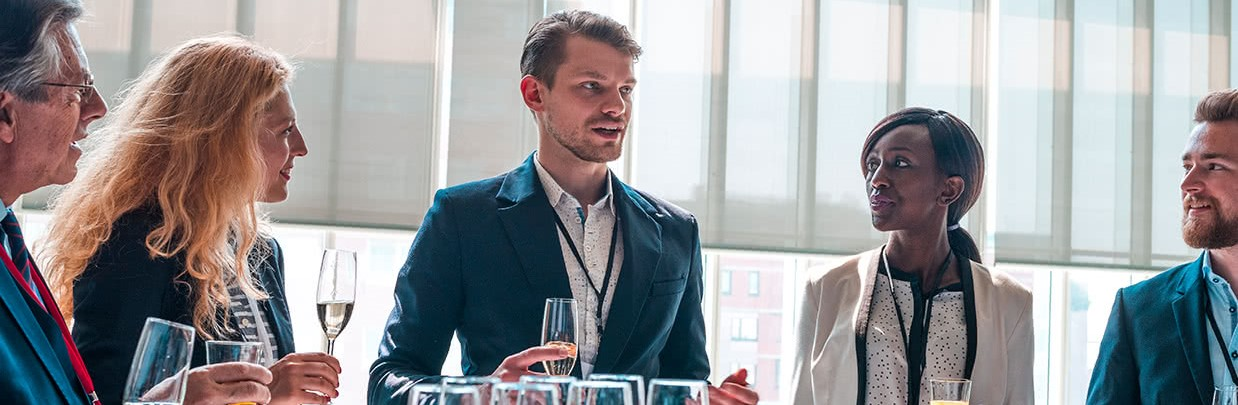
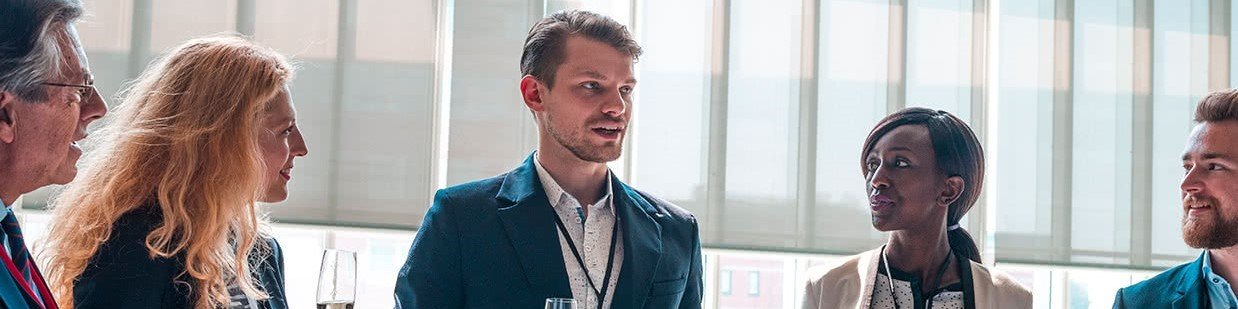
detailed the components and minor stuff

diff --git a/frontend/src/pages/Home/index.tsx b/frontend/src/pages/Home/index.tsx
@@ -5,8 +5,11 @@ import { Banner } from './Banner';
 import { Category } from './Category';
 import TabList from '@/components/Tabs/TabList';
 import TabItem from '@/components/Tabs/TabItem';
-import about1 from '../../assets/img/about-1.jpg';
-import about2 from '../../assets/img/about-2.jpg';
+import about1 from '../../assets/img/about1.jpg';
+import about2 from '../../assets/img/about2.jpg';
+import article1 from '../../assets/img/article1.jpg';
+import article2 from '../../assets/img/article2.jpg';
+import article3 from '../../assets/img/article3.jpg';
 
 const Home: React.FC = () => {
   const { commonStore } = useStore();
@@ -197,13 +200,13 @@ const Home: React.FC = () => {
                 <div className="single-blog !p-5 border-gray border border-solid transition-all rounded-md group hover:border-themePrimary">
                   <div className="img mb-4 overflow-hidden rounded-md">
                     <a href="/blog/single-blog">
-                      <img alt="" aria-hidden="true" src="https://metajobs.vercel.app/_next/image?url=%2Fassets%2Fimg%2Fpost%2Fblog-img-1.webp&w=1080&q=75" />
+                      <img alt="" aria-hidden="true" src={article1} />
                     </a>
                   </div>
-                  <p className="text-grayLight text-xss font-normal mb-2">17 July 2022</p>
-                  <a className="text-arsenic hover:text-themePrimary transition-all duration-300 ease-in-out text-lg2 font-bold leading-6 mb-3 block" href="/blog/single-blog">Simple &amp; Awesome Blog Title Here Lorem Ipsum Dummy Text</a>
+                  <p className="text-grayLight text-xss font-normal mb-2">01 July 2024</p>
+                  <a className="text-arsenic hover:text-themePrimary transition-all duration-300 ease-in-out text-lg2 font-bold leading-6 mb-3 block" href="/blog/single-blog">How to Ace Your Next Job Interview</a>
                   <div className="mb-6">
-                    <p className="text-xs text-deep font-normal leading-6">Lorem ipsum dolor sit amet, consectetur adipiscing elit, sed do eiusmod tempor incididunt ut labore et dolore magna aliqua. Ut enim ad minim veniam, quis nostrud exercitation ullamco laboris nisi ut aliquip ex ea commodo consequat.</p>
+                    <p className="text-xs text-deep font-normal leading-6">"Preparing for a job interview can be a daunting task, but with the right strategies, you can make a lasting impression. Start by researching the company and understanding its culture. Practice common interview questions and answers, and dress appropriately for the role. During the interview, be confident, make eye contact, and listen carefully to the questions before responding. After the interview, don't forget to send a thank-you email to express your appreciation for the opportunity. These steps can significantly increase your chances of landing the job."</p>
                   </div>
                   <div className="blog-btn">
                     <a className="inline-flex gap-3 items-center py-2.5 px-6 bg-light rounded-md group-hover:!bg-themePrimary leading-4 text-deep transition-all text-xxs group-hover:!text-white" href="/blog/single-blog">Read More</a>
@@ -212,13 +215,13 @@ const Home: React.FC = () => {
                 <div className="single-blog !p-5 border-gray border border-solid transition-all rounded-md group hover:border-themePrimary">
                   <div className="img mb-4 overflow-hidden rounded-md">
                     <a href="/blog/single-blog">
-                      <img alt="" aria-hidden="true" src="https://metajobs.vercel.app/_next/image?url=%2Fassets%2Fimg%2Fpost%2Fblog-img-1.webp&w=1080&q=75" />
+                      <img alt="" aria-hidden="true" src={article2} />
                     </a>
                   </div>
-                  <p className="text-grayLight text-xss font-normal mb-2">17 July 2022</p>
-                  <a className="text-arsenic hover:text-themePrimary transition-all duration-300 ease-in-out text-lg2 font-bold leading-6 mb-3 block" href="/blog/single-blog">Simple &amp; Awesome Blog Title Here Lorem Ipsum Dummy Text</a>
+                  <p className="text-grayLight text-xss font-normal mb-2">15 June 2024</p>
+                  <a className="text-arsenic hover:text-themePrimary transition-all duration-300 ease-in-out text-lg2 font-bold leading-6 mb-3 block" href="/blog/single-blog">The Importance of Networking in Your Career</a>
                   <div className="mb-6">
-                    <p className="text-xs text-deep font-normal leading-6">Lorem ipsum dolor sit amet, consectetur adipiscing elit, sed do eiusmod tempor incididunt ut labore et dolore magna aliqua. Ut enim ad minim veniam, quis nostrud exercitation ullamco laboris nisi ut aliquip ex ea commodo consequat.</p>
+                    <p className="text-xs text-deep font-normal leading-6">"Networking is a powerful tool that can propel your career to new heights. Building a strong professional network opens doors to opportunities that might not be advertised publicly. Attend industry events, join professional associations, and participate in online forums to meet new people in your field. Networking isn't just about what others can do for you; it's also about what you can offer in return. Share your knowledge, skills, and resources to build mutually beneficial relationships. Over time, your network can provide valuable support, advice, and job leads."</p>
                   </div>
                   <div className="blog-btn">
                     <a className="inline-flex gap-3 items-center py-2.5 px-6 bg-light rounded-md group-hover:!bg-themePrimary leading-4 text-deep transition-all text-xxs group-hover:!text-white" href="/blog/single-blog">Read More</a>
@@ -227,13 +230,13 @@ const Home: React.FC = () => {
                 <div className="single-blog !p-5 border-gray border border-solid transition-all rounded-md group hover:border-themePrimary">
                   <div className="img mb-4 overflow-hidden rounded-md">
                     <a href="/blog/single-blog">
-                      <img alt="" aria-hidden="true" src="https://metajobs.vercel.app/_next/image?url=%2Fassets%2Fimg%2Fpost%2Fblog-img-1.webp&w=1080&q=75" />
+                      <img alt="" aria-hidden="true" src={article3} />
                     </a>
                   </div>
-                  <p className="text-grayLight text-xss font-normal mb-2">17 July 2022</p>
-                  <a className="text-arsenic hover:text-themePrimary transition-all duration-300 ease-in-out text-lg2 font-bold leading-6 mb-3 block" href="/blog/single-blog">Simple &amp; Awesome Blog Title Here Lorem Ipsum Dummy Text</a>
+                  <p className="text-grayLight text-xss font-normal mb-2">30 May 2024</p>
+                  <a className="text-arsenic hover:text-themePrimary transition-all duration-300 ease-in-out text-lg2 font-bold leading-6 mb-3 block" href="/blog/single-blog">Balancing Work and Life: Tips for a Healthier Lifestyle</a>
                   <div className="mb-6">
-                    <p className="text-xs text-deep font-normal leading-6">Lorem ipsum dolor sit amet, consectetur adipiscing elit, sed do eiusmod tempor incididunt ut labore et dolore magna aliqua. Ut enim ad minim veniam, quis nostrud exercitation ullamco laboris nisi ut aliquip ex ea commodo consequat.</p>
+                    <p className="text-xs text-deep font-normal leading-6">"Achieving a healthy work-life balance is essential for both your mental and physical well-being. Start by setting clear boundaries between work and personal time. Make a schedule that includes time for work, family, and leisure activities. Prioritize tasks and learn to say no to non-essential commitments. Incorporate regular exercise and healthy eating into your daily routine to boost your energy levels and reduce stress. Additionally, ensure you get enough sleep each night to allow your body to recover. Remember, a well-balanced life leads to greater productivity and happiness."</p>
                   </div>
                   <div className="blog-btn">
                     <a className="inline-flex gap-3 items-center py-2.5 px-6 bg-light rounded-md group-hover:!bg-themePrimary leading-4 text-deep transition-all text-xxs group-hover:!text-white" href="/blog/single-blog">Read More</a>

diff --git a/frontend/src/components/Footer/Footer.tsx b/frontend/src/components/Footer/Footer.tsx
@@ -11,15 +11,15 @@ const Footer = () => {
           <div>
             <h5 className="text-white text-lg font-bold mb-4">Company</h5>
             <a href="#" className="block text-gray-300 hover:text-white mb-2">About Us</a>
-            <a href="#" className="block text-gray-300 hover:text-white mb-2">Contact Us</a>
+            <a href="contact-us" className="block text-gray-300 hover:text-white mb-2">Contact Us</a>
             <a href="#" className="block text-gray-300 hover:text-white mb-2">Our Services</a>
             <a href="#" className="block text-gray-300 hover:text-white mb-2">Privacy Policy</a>
             <a href="#" className="block text-gray-300 hover:text-white mb-2">Terms & Condition</a>
           </div>
           <div>
             <h5 className="text-white text-lg font-bold mb-4">Quick Links</h5>
-            <a href="#" className="block text-gray-300 hover:text-white mb-2">About Us</a>
-            <a href="#" className="block text-gray-300 hover:text-white mb-2">Contact Us</a>
+            <a href="/about" className="block text-gray-300 hover:text-white mb-2">About Us</a>
+            <a href="contact-us" className="block text-gray-300 hover:text-white mb-2">Contact Us</a>
             <a href="#" className="block text-gray-300 hover:text-white mb-2">Our Services</a>
             <a href="#" className="block text-gray-300 hover:text-white mb-2">Privacy Policy</a>
             <a href="#" className="block text-gray-300 hover:text-white mb-2">Terms & Condition</a>
@@ -28,11 +28,11 @@ const Footer = () => {
             <h5 className="text-white text-lg font-bold mb-4">Contact</h5>
             <p className="flex items-center mb-2">
               <FontAwesomeIcon icon={faMapMarkerAlt} className="mr-2" />
-              18 Hoàng Quốc Việt, Nghĩa Đô, Cầu Giấy, Hà Nội 100000, Vietnam
+              15/8 P. Duy Tân, Dịch Vọng Hậu, Cầu Giấy, Hà Nội 11310, Vietnam
             </p>
             <p className="flex items-center mb-2">
               <FontAwesomeIcon icon={faPhoneAlt} className="mr-2" />
-              +84 815 68196
+              +84 981 568196
             </p>
             <p className="flex items-center mb-2">
               <FontAwesomeIcon icon={faEnvelope} className="mr-2" />
@@ -67,7 +67,7 @@ const Footer = () => {
         <div className="container mx-auto px-4">
           <div className="flex flex-col md:flex-row justify-between items-center">
             <div className="text-center md:text-left mb-4 md:mb-0">
-              &copy; <a href="#" className="text-white hover:underline">JobHub</a>, All Right Reserved. 
+              &copy; <a href="/" className="text-white hover:underline">JobHub</a>, All Right Reserved. 
             </div>
             <div className="flex space-x-4">
               <a href="/" className="text-gray-300 hover:text-white">Home</a>

diff --git a/frontend/src/pages/Home/Banner/index.tsx b/frontend/src/pages/Home/Banner/index.tsx
@@ -1,14 +1,17 @@
 import React from "react";
+import main from "../../../assets/img/main.jpg"
 
 export function Banner() {
     return (
-            <section className="py-16 md:py-20 lg:py-24 relative bg-cover bg-center bg-no-repeat" style={{ backgroundImage: "url(https://metajobs.vercel.app/assets/img/banner-bg.webp)" }}>
+        <section 
+        className="py-16 md:py-20 lg:py-24 relative bg-cover bg-center bg-no-repeat" 
+        style={{ backgroundImage: `url(${main})` }}>
                 <div className="absolute w-full h-full left-0 top-0 z-2" style={{ backgroundColor: "rgba(0, 124, 50, 0.7)" }}></div>
                 <div className="container">
                     <div className="w-10/12 m-auto z-4 relative">
                         <div className="text-center">
-                            <h1 className="text-5xl xl:text-6xl font-bold text-white text-center leading-none mb-3">Find Your Dream Job <br className="hidden xl:inline" />With Brand Name</h1>
-                            <p className="text-lg font-normal text-white leading-8">Lorem Ipsum is simply dummy text of the printing and <br className="hidden xl:inline" />typesetting industry’s standard dummy text</p>
+                            <h1 className="text-5xl xl:text-6xl font-bold text-white text-center leading-none mb-3">Discover Your Ideal Career Path <br className="hidden xl:inline" />With JobHub</h1>
+                            <p className="text-lg font-normal text-white leading-8">Find opportunities that match your skills and aspirations. <br className="hidden xl:inline" />Start your journey towards a fulfilling career today!</p>
                         </div>
                         <div className="search-wrapper mt-10 p-2 rounded-2xl mb-10" style={{ backgroundColor: "rgba(121, 184, 151, 0.5)" }}>
                             <form>

diff --git a/backend/src/routes/public/job.js b/backend/src/routes/public/job.js
@@ -53,10 +53,10 @@
  *             type: string
  *           description: Job location
  *         - in: query
- *           name: category
+ *           name: categoryId
  *           schema:
  *             type: string
- *           description: Job category
+ *           description: Job category ID
  *       responses:
  *         200:
  *           description: List of jobs matching the search criteria
@@ -85,9 +85,6 @@
  *         location:
  *           type: string
  *           description: Location of the job
- *         category:
- *           type: string
- *           description: Category of the job
  *         businessLogoUrl:
  *           type: string
  *           description: URL of the business logo
@@ -100,6 +97,9 @@
  *             type: string
  *             enum: [fulltime, parttime, internship, remote, contract]
  *           description: Type(s) of employment for the job
+ *         categoryId:
+ *           type: string
+ *           description: ID of the job category
  *         createdAt:
  *           type: string
  *           format: date-time
@@ -117,10 +117,10 @@
  *         description: We are looking for an experienced software engineer...
  *         userId: 5f9d5a3b9d3e2a1b1c9d5a3b
  *         location: San Francisco, CA
- *         category: Information Technology
  *         businessLogoUrl: https://example.com/logo.png
  *         salary: $120,000 - $150,000 per year
  *         employmentType: [fulltime, remote]
+ *         categoryId: 5f9d5a3b9d3e2a1b1c9d5a3c
  *         createdAt: 2023-06-01T00:00:00.000Z
  *         updatedAt: 2023-06-01T00:00:00.000Z
  *         expiredAt: 2023-07-01T00:00:00.000Z

diff --git a/frontend/src/pages/ContactUs/ContactDetails/ContactDetails.tsx b/frontend/src/pages/ContactUs/ContactDetails/ContactDetails.tsx
@@ -6,23 +6,23 @@ const ContactDetails = () => {
       <div className="border-l-4 border-rose-400 px-5">
         <p className="text-lg font-medium text-[#373737]">Address</p>
         <p className="text-grayLight text-base font-normal pt-2">
-          158 Ralegih Sit, Houston, <br />
-          Yk 5896, UK
+        15/8 P. Duy Tân, Dịch Vọng Hậu, Cầu Giấy,<br />
+        Hà Nội 11310, Vietnam 
         </p>
       </div>
       <hr className="my-7" />
       <div className="border-l-4 border-blue-400 px-5">
         <p className="text-lg font-medium text-[#373737]">Phones</p>
         <p className="text-grayLight text-base font-normal pt-2">
-          (406) 555-0120 <span className="text-themePrimary">(Toll Free)</span>
+        +84 981 568196 <span className="text-themePrimary">(Toll Free)</span>
         </p>
-        <p className="text-grayLight text-base font-normal pt-2">(406) 555-0120</p>
+        <p className="text-grayLight text-base font-normal pt-2">+84 981 568196</p>
       </div>
       <hr className="my-7" />
       <div className="border-l-4 border-orange-400 px-5">
         <p className="text-lg font-medium text-[#373737]">E-Mail</p>
-        <p className="text-grayLight text-base font-normal pt-2">Support87@Gmial.Com</p>
-        <p className="text-grayLight text-base font-normal pt-2">Info@Youremial.Com</p>
+        <p className="text-grayLight text-base font-normal pt-2">trungnt.bi11-274@st.usth.edu.vn</p>
+        <p className="text-grayLight text-base font-normal pt-2">trungnt261@gmail.com</p>
       </div>
     </div>
   );

diff --git a/backend/src/routes/private/job.js b/backend/src/routes/private/job.js
@@ -29,9 +29,14 @@
  *           type: string
  *           description: Salary information for the job
  *         employmentType:
+ *           type: array
+ *           items:
+ *             type: string
+ *             enum: [fulltime, parttime, internship, remote, contract]
+ *           description: Type(s) of employment for the job
+ *         categoryId:
  *           type: string
- *           enum: [fulltime, parttime, internship, remote, contract]
- *           description: Type of employment for the job
+ *           description: ID of the job category
  *         expiredAt:
  *           type: string
  *           format: date-time
@@ -43,7 +48,8 @@
  *         location: San Francisco, CA
  *         businessLogoUrl: https://example.com/logo.png
  *         salary: $120,000 - $150,000 per year
- *         employmentType: fulltime
+ *         employmentType: [fulltime, remote]
+ *         categoryId: 5f9d5a3b9d3e2a1b1c9d5a3c
  *         expiredAt: 2023-07-01T00:00:00.000Z
  *
  * paths:

diff --git a/backend/src/app/Controllers/JobController.js b/backend/src/app/Controllers/JobController.js
@@ -100,7 +100,7 @@ class JobController {
 
   searchJobs = async (request, response) => {
     try {
-      const { query, location, category } = request.query;
+      const { query, location, categoryId } = request.query;
       
       let searchCriteria = {};
   
@@ -115,8 +115,8 @@ class JobController {
         searchCriteria.location = { $regex: location, $options: 'i' };
       }
   
-      if (category) {
-        searchCriteria.category = { $regex: category, $options: 'i' };
+      if (categoryId) {
+        searchCriteria.categoryId = categoryId;
       }
   
       const jobs = await model.find(searchCriteria);

diff --git a/frontend/src/components/ScrollTop.tsx b/frontend/src/components/ScrollTop.tsx
@@ -30,7 +30,7 @@ const ScrollTop: React.FC<ScrollTopProps> = () => {
     <div className="overflow-hidden">
       <button
         aria-label="arrow"
-        className={`w-[50px] h-[50px] fixed bottom-6 ss:bottom-10 z-30 -right-full transition-all duration-500 shadow-2xl shadow-black bg-[#1caf57] hover:bg-[#20d769] active:p-[.45rem] p-2 rounded`}
+        className={`w-[50px] h-[50px] fixed bottom-14 ss:bottom-10 z-30 -right-full transition-all duration-500 shadow-2xl shadow-black bg-[#1caf57] hover:bg-[#20d769] active:p-[.45rem] p-2 rounded`}
         onClick={scrollToTop}
         ref={arrowRef}
       >

diff --git a/frontend/src/pages/Candidates/index.tsx b/frontend/src/pages/Candidates/index.tsx
@@ -95,7 +95,7 @@ const Candidates: React.FC = () => {
                 <div className="container p-16 relative z-3">
                     <div className="w-10/12 m-auto pt-10 pb-7">
                         <div className="text-center">
-                            <h1 className="text-xxl xl:text-xxxl font-bold text-white text-center leading-none mb-6">Candidate List</h1>
+                            <h1 className="text-5xl xl:text-6xl font-bold text-white text-center leading-none mb-3">Candidate List</h1>
                         </div>
                     </div>
                 </div>

diff --git a/frontend/src/pages/ContactUs/index.tsx b/frontend/src/pages/ContactUs/index.tsx
@@ -13,7 +13,7 @@ const ContactUs: React.FC = () => {
                 <div className="container p-16 relative z-3">
                     <div className="w-10/12 m-auto pt-10 pb-7">
                         <div className="text-center">
-                            <h1 className="text-xxl xl:text-xxxl font-bold text-white text-center leading-none mb-6">Contact Us</h1>
+                            <h1 className="text-5xl xl:text-6xl font-bold text-white text-center leading-none mb-3">Contact Us</h1>
                         </div>
                     </div>
                 </div>

diff --git a/frontend/src/pages/Jobs/index.tsx b/frontend/src/pages/Jobs/index.tsx
@@ -179,7 +179,7 @@ const Jobs: React.FC = () => {
         <div className="container p-16 relative z-3">
           <div className="w-10/12 m-auto pt-10 pb-7">
             <div className="text-center">
-              <h1 className="text-xxl xl:text-xxxl font-bold text-white text-center leading-none mb-6">Search and Find Your Dream Job</h1>
+              <h1 className="text-5xl xl:text-6xl font-bold text-white text-center leading-none mb-3">Search and Find Your Dream Job</h1>
             </div>
           </div>
         </div>

diff --git a/frontend/src/pages/Businesses/index.tsx b/frontend/src/pages/Businesses/index.tsx
@@ -186,7 +186,7 @@ const Businesses: React.FC = () => {
         <div className="container p-16 relative z-3">
           <div className="w-10/12 m-auto pt-10 pb-7">
             <div className="text-center">
-              <h1 className="text-xxl xl:text-xxxl font-bold text-white text-center leading-none mb-6">All Businesses</h1>
+              <h1 className="text-5xl xl:text-6xl font-bold text-white text-center leading-none mb-3">All Businesses</h1>
             </div>
           </div>
         </div>
